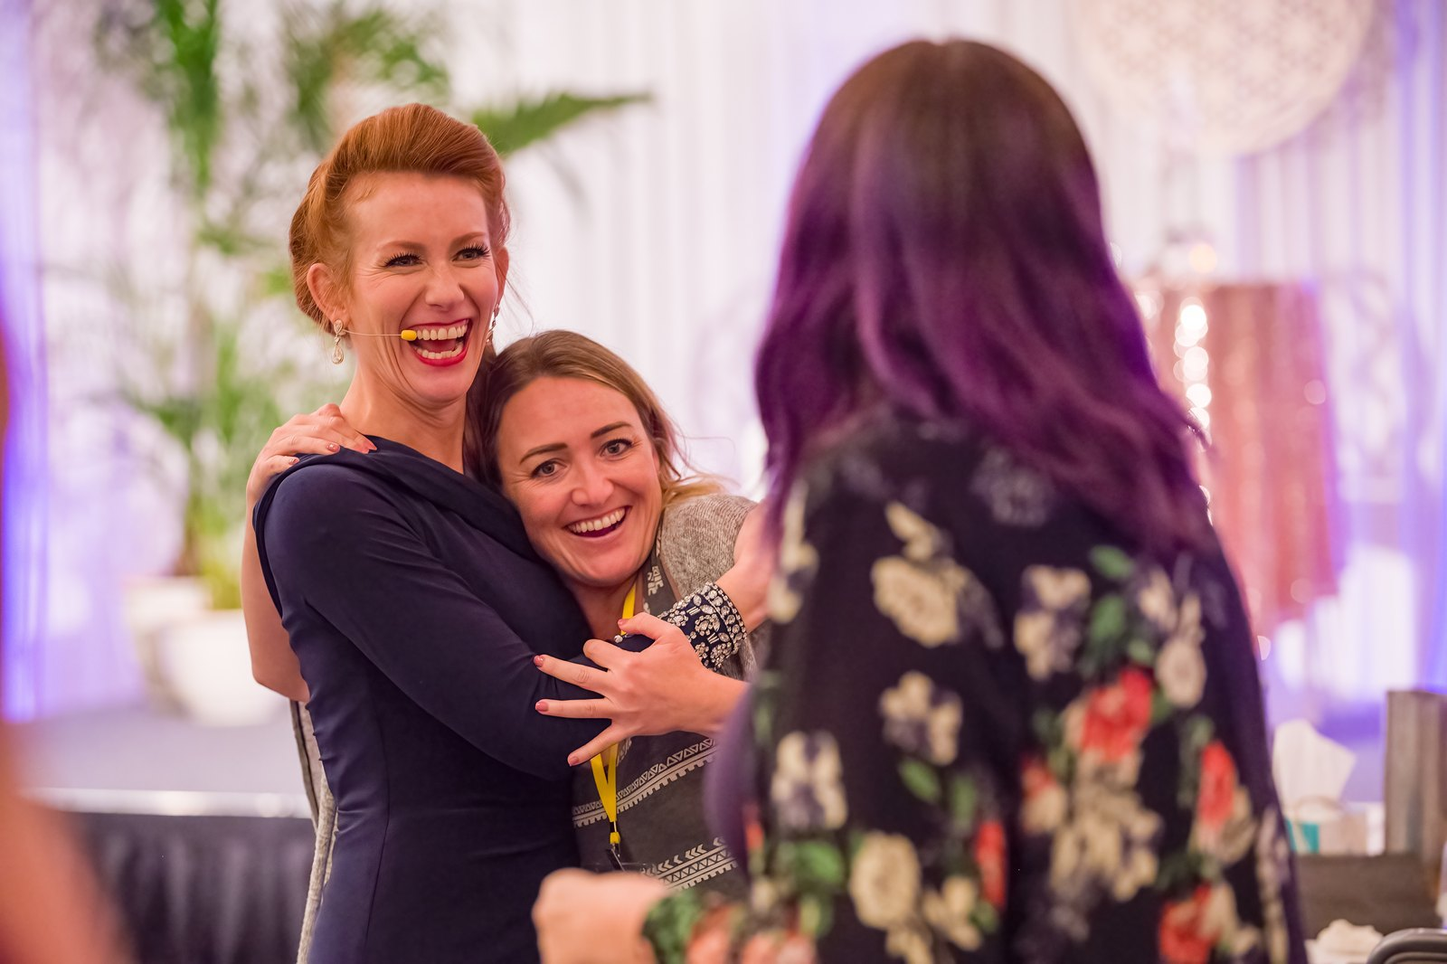
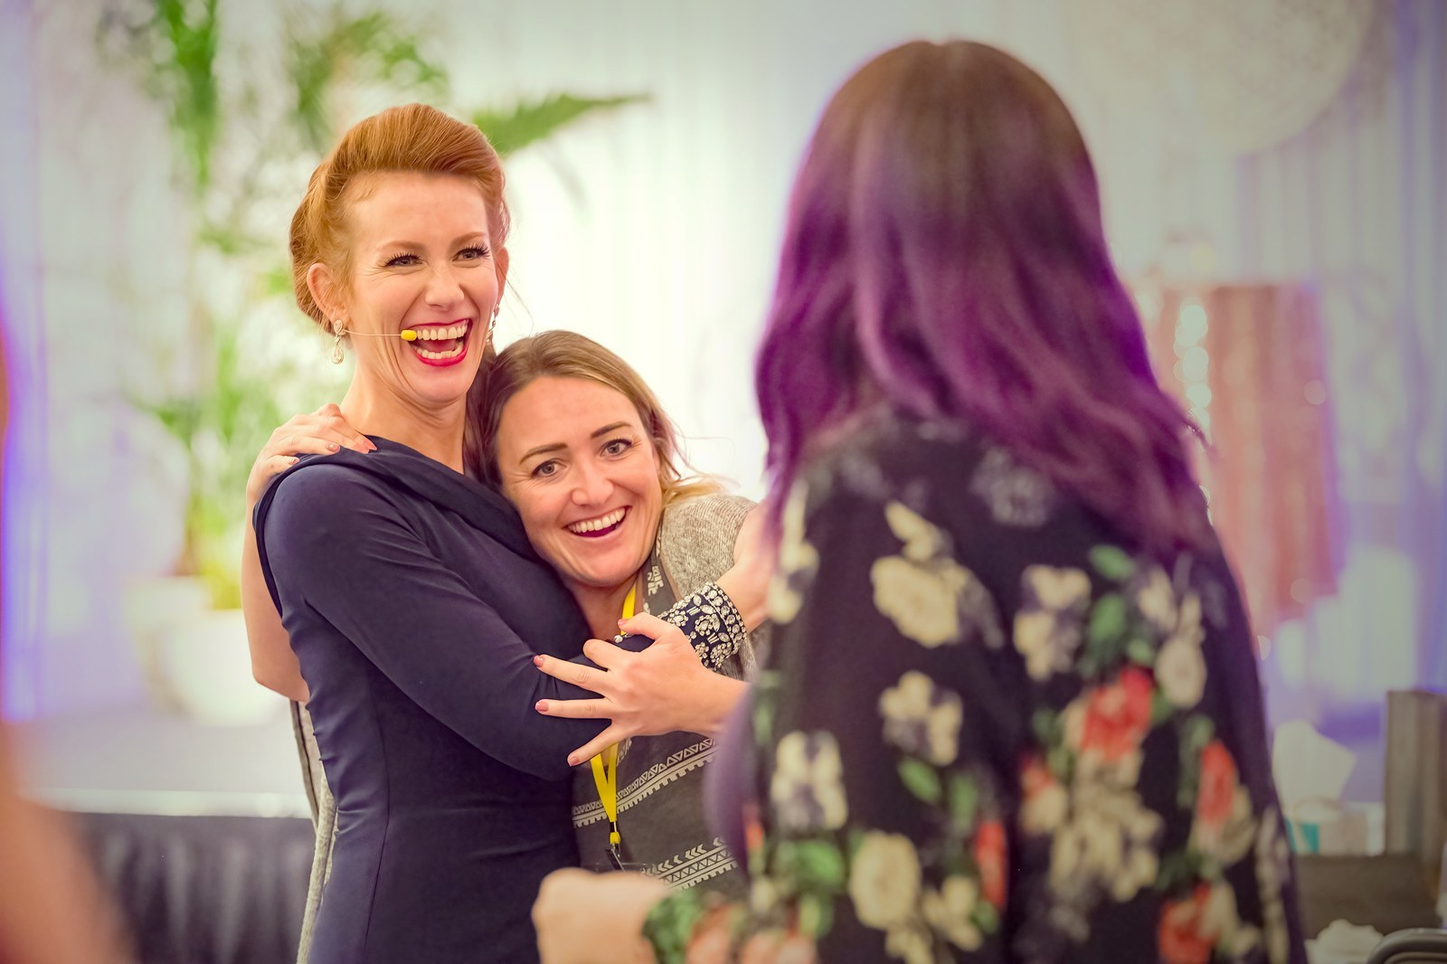
Rise of the Divine sales page live at /rise; old Rise links point to it

diff --git a/rise.html b/rise.html
@@ -1,0 +1,164 @@
+<!doctype html>
+<html lang="en">
+<head>
+<meta charset="utf-8">
+<meta name="viewport" content="width=device-width, initial-scale=1, viewport-fit=cover">
+<title>Rise of the Divine | Accelerator Course with Tamara Rose</title>
+<meta name="description" content="Rise of the Divine is Tamara Rose&#x27;s accelerator course: energy clearings, learning to trust your intuition and shifts that usually take months, on your own time.">
+<link rel="canonical" href="https://www.thebeyondhumanmethod.com/rise">
+<meta property="og:type" content="website">
+<meta property="og:site_name" content="The Beyond Human Method">
+<meta property="og:title" content="Rise of the Divine: An Accelerator Course with Tamara Rose">
+<meta property="og:description" content="Rise of the Divine is Tamara Rose&#x27;s accelerator course: energy clearings, learning to trust your intuition and shifts that usually take months, on your own time.">
+<meta property="og:image" content="https://www.thebeyondhumanmethod.com/img/tamara-rose-seated-black-lace-dress-fireplace.jpg">
+<meta property="og:url" content="https://www.thebeyondhumanmethod.com/rise">
+<meta name="twitter:card" content="summary_large_image">
+<meta name="theme-color" content="#440039">
+<link rel="preconnect" href="https://fonts.googleapis.com"><link rel="preconnect" href="https://fonts.gstatic.com" crossorigin>
+<link rel="stylesheet" href="https://fonts.googleapis.com/css2?family=Jost:wght@300;400;500&family=Cormorant+Garamond:ital,wght@0,400;0,500;1,400&display=swap">
+<link rel="stylesheet" href="assets/site.css?v=26">
+<script type="application/ld+json">{"@context": "https://schema.org", "@graph": [{"@type": "Course", "@id": "https://www.thebeyondhumanmethod.com/rise#course", "name": "Rise of the Divine", "description": "An accelerator course with Tamara Rose, recorded at a live three-day event: energy clearings, learning to hear and trust your intuition, the truth about time and money, laser coaching, and activating your divine archetype with a daily action plan. Video and audio lessons with a workbook, learned at your own pace.", "url": "https://www.thebeyondhumanmethod.com/rise", "image": "https://www.thebeyondhumanmethod.com/img/tamara-rose-seated-black-lace-dress-fireplace.jpg", "inLanguage": "en", "provider": {"@type": "Organization", "name": "The Beyond Human Method", "sameAs": "https://www.thebeyondhumanmethod.com"}, "instructor": {"@type": "Person", "name": "Tamara Rose"}, "offers": {"@type": "Offer", "category": "Paid", "price": "997", "priceCurrency": "USD", "availability": "https://schema.org/InStock", "url": "https://www.thebeyondhumanmethod.com/rise"}, "hasCourseInstance": {"@type": "CourseInstance", "courseMode": "Online", "instructor": {"@type": "Person", "name": "Tamara Rose"}}}, {"@type": "FAQPage", "mainEntity": [{"@type": "Question", "name": "How is Rise of the Divine different from other personal development courses?", "acceptedAnswer": {"@type": "Answer", "text": "Most courses focus on feeling better, positive thinking and surface shifts. Rise gives you the clearing itself, so the energy that's been weighing you down actually moves, and it teaches you to hear your own intuition. Most courses end when you complete them; this is the beginning of a lifelong transformation."}}, {"@type": "Question", "name": "I'm new to energy work. Will I fit in?", "acceptedAnswer": {"@type": "Answer", "text": "Absolutely. Women come to Rise at every stage of the journey, whether they're just awakening or have been on this path for years. Everything is taught from the ground up, and you'll hear women from the live event asking the questions you're already thinking."}}, {"@type": "Question", "name": "Can I really fit this into my life?", "acceptedAnswer": {"@type": "Answer", "text": "Yes. The lessons are short, every one comes in video and audio, and they open one after another so you always know what's next. Listen on a walk or a school run, or pour a cup of tea and go deep whenever you have the time."}}, {"@type": "Question", "name": "Where does the course live?", "acceptedAnswer": {"@type": "Answer", "text": "Rise lives in the Beyond Human community app, on your phone or your laptop. Right after checkout you go straight to your Welcome lesson."}}, {"@type": "Question", "name": "What if it isn't right for me?", "acceptedAnswer": {"@type": "Answer", "text": "Rise is backed by a 7-day money-back guarantee. If the course isn't right for you, email us within 7 days of purchase for a full refund."}}, {"@type": "Question", "name": "How long do I have access?", "acceptedAnswer": {"@type": "Answer", "text": "For life. Once you join, Rise is yours to come back to whenever you need it."}}, {"@type": "Question", "name": "Can I pay over time?", "acceptedAnswer": {"@type": "Answer", "text": "Yes. Pay $997 in full, or choose 3 monthly payments of $397 at checkout ($1,191 in total)."}}, {"@type": "Question", "name": "Does Rise count toward working with Tamara?", "acceptedAnswer": {"@type": "Answer", "text": "Yes. If Rise opens something you want to keep going with, the full amount you paid for Rise counts toward working with Tamara when you enroll within 45 days of starting the course."}}, {"@type": "Question", "name": "How do I find out what my own primary pattern is?", "acceptedAnswer": {"@type": "Answer", "text": "That's the Energetic Alignment Audit, a private session with Tamara where you name your primary pattern. It's a $1,500 value, usually $497, and Rise buyers can add it at checkout for $247."}}]}]}</script>
+<script async src="https://www.googletagmanager.com/gtag/js?id=G-TN50F5PK7E"></script>
+<script>window.dataLayer=window.dataLayer||[];function gtag(){dataLayer.push(arguments);}gtag('js',new Date());gtag('config','G-TN50F5PK7E');
+document.addEventListener('click',function(e){var a=e.target.closest('a[href]');if(!a)return;var h=a.href;
+if(h.indexOf('calendly.com')>-1)gtag('event','begin_checkout',{link_url:h,link_text:a.textContent.trim()});
+else if(h.indexOf('circle.so')>-1)gtag('event','join_community_click',{link_url:h});});</script>
+</head>
+<body>
+<a href="#main" class="fine" style="position:absolute;left:-9999px">Skip to content</a>
+
+<header class="site-head"><div class="wrap">
+<a class="brand" href="index.html" aria-label="The Beyond Human Method with Tamara Rose, home"><img src="img/logo.png" alt="The Beyond Human Method" width="297" height="121"><small>with Tamara Rose</small></a>
+
+</div></header>
+<main id="main">
+<section class="hero"><div class="wrap">
+  <div class="stack">
+    <p class="eyebrow">An accelerator course with Tamara Rose</p>
+    <h1>Rise of the Divine</h1>
+    <p class="lede">Clear the energy that's been weighing you down, hear your own intuition and feel shifts that usually take months, in one accelerator you can start today.</p>
+    <p>If you're exhausted from doing it all, carrying the mental load and shrinking yourself to fit a system that was never built for you&hellip; it's time to rise.</p>
+    <div class="stack-sm" style="align-items:flex-start"><a class="btn" href="go/rise">I'm in! Let's get started</a><span class="fine">$997 &middot; 7-day money-back guarantee</span></div>
+  </div>
+  <figure class="frame" style="margin-block:0"><img src="img/tamara-rose-seated-black-lace-dress-fireplace.jpg" alt="Tamara Rose smiling in a black lace dress, seated by a fireplace" style="object-position:100% 30%" width="1000" height="1334" fetchpriority="high"></figure>
+</div></section>
+
+<section><div class="wrap narrow stack">
+  <h2>You were born into a system that was never built for you&hellip;</h2>
+  <p>You've been told your whole life that you have to:</p>
+  <ul class="ticks">
+    <li>Work harder to prove you're worthy</li>
+    <li>Carry everything without complaining</li>
+    <li>Put everyone else first</li>
+    <li>Hustle, because hustle is the only way to success</li>
+    <li>Never make waves, be too much or stand out, so others stay comfortable and you fit in</li>
+  </ul>
+  <p>And you did it; you became the achiever, the responsible one and the one everyone counts on, juggling the kids, work, the house, the schedules and everyone's feelings along with your own, and somewhere along the way you lost yourself.</p>
+  <p>Your body is tired, your mind won't shut off and you don't have the energy for your relationships. The life you built probably looks good on paper, but it still feels empty. Everything you built has been inside a toxic system that has you produce more to prove your worth; it tells you rest will come someday, later, and that receiving is selfish, so your needs come last.</p>
+  <p>There's another way, a divine way, where you prioritize yourself without dread, work from flow instead of depletion and receive without guilt, and it starts here.</p>
+</div></section>
+
+<section class="tint"><div class="wrap narrow stack">
+  <p class="eyebrow">Learn at your own pace</p>
+  <h2>Energy doesn't end&hellip;</h2>
+  <p>We took our live three-day event and made it work on your terms. The work of the Beyond Human Method happens in the activation, when you bring yourself to a session, recorded or live. So even if you weren't in the room with us, you're finding Rise at exactly the right time; that's how energy works.</p>
+  <p>This accelerator gives you the tools, tips and techniques I usually only teach inside Divine Self Mastery, all in one place, so you get a complete recalibration of your energy field in your own sacred space. Move through it at your own pace, with video and audio for however you learn best; listen on the go, or create a sacred time each day for the teachings.</p>
+</div></section>
+
+<section><div class="wrap stack" style="gap:28px">
+  <div class="narrow stack"><h2>Four parts, in the order the work unfolds&hellip;</h2></div>
+  <div class="steps">
+    <div class="step"><span class="n">1</span><div><h3>Clearing the human limitations</h3><p>Learn the human limitations and the quiet lies that keep you playing small, and see how your thoughts, feelings and actions create what shows up in your life. Then clear what's been in the way in the Rise Group Clearing, a full clearing session you can come back to again and again; that session alone is worth the price of the course.</p></div></div>
+    <div class="step"><span class="n">2</span><div><h3>Intuition, time and money</h3><p>Find out how your intuition speaks to you, whether you're a knower, a feeler, a seer or a hearer, and how to tell if a message is coming from fear or from your higher self. Then learn the truth about the time and money limitations you've been living with, so you can stop forcing life and start choosing what's aligned.</p></div></div>
+    <div class="step"><span class="n">3</span><div><h3>Laser coaching</h3><p>Watch four women receive guidance beyond what they could see for themselves, on charging what they're worth, trusting it will all work out, patterns carried down a family line and finding more confidence. Look for yourself in someone else's breakthrough, and let yourself rise right along with her.</p></div></div>
+    <div class="step"><span class="n">4</span><div><h3>Your divine archetype and action plan</h3><p>Activate your divine archetype and create your action plan to keep rising on your divine path, with practices for every day, week and month that hold the transformation long after the course ends.</p></div></div>
+  </div>
+</div></section>
+
+<section class="tint"><div class="wrap split">
+  <figure class="frame" style="margin-block:0"><img src="img/tamara-rose-hugging-participants-event.jpg" alt="Tamara Rose hugging participants at a live event" style="object-position:30% 40%" width="1600" height="1066" loading="lazy"></figure>
+  <div class="stack">
+    <p class="eyebrow">Why it's called Rise of the Divine</p>
+    <h2>There's a collective divine feminine energy rising on the planet&hellip;</h2>
+    <p>You can feel it. Women everywhere are fed up, done shrinking and done running on empty, and that fed-up feeling is the activation; the frustration, the anger and the "I can't keep doing it this way" are the energy rising in you.</p>
+    <p>Rise helps you get clear on that energy, how it moves through you and what your path forward is. Along the way, you clear the older, smaller versions of you: the one who always had to prove herself, the one who needed to be needed and the one who kept running on the hamster wheel because stopping didn't feel safe.</p>
+  </div>
+</div></section>
+
+<section><div class="wrap stack" style="max-width:980px">
+  <h2>Everything you get&hellip;</h2>
+  <ul class="ticks" style="display:grid;grid-template-columns:repeat(auto-fit,minmax(380px,1fr));gap:12px 40px">
+    <li><strong>More than 40 lessons from the original event,</strong> short enough to fit into your day, to learn in the moments you already have</li>
+    <li><strong>An audio version of every lesson,</strong> to take it with you on walks, drives and school runs</li>
+    <li><strong>The Rise workbook inside every lesson,</strong> to capture what comes up while it's fresh</li>
+    <li><strong>The Rise Group Clearing in video and audio,</strong> to loop as often as you like and keep clearing what's been in the way</li>
+    <li><strong>Four laser coaching sessions,</strong> to see yourself in someone else's breakthrough</li>
+    <li><strong>A check-in after each part,</strong> to notice what's already shifting</li>
+    <li><strong>Your divine archetype activation and action plan,</strong> to carry the transformation into your everyday life</li>
+    <li><strong>The 20-Day Meditation Series, free with your community access,</strong> to build a daily practice that lasts</li>
+  </ul>
+</div></section>
+
+<section><div class="wrap stack" style="max-width:900px;gap:30px">
+  <div class="seed" id="start" style="grid-template-columns:1fr;justify-items:center;text-align:center;padding:clamp(34px,4vw,52px) clamp(24px,5vw,64px)"><div class="stack-sm" style="max-width:640px"><p class="fine" style="color:var(--plum);letter-spacing:.16em;text-transform:uppercase">Rise of the Divine &middot; Total value $4,500</p><p class="q">Your investment: $997</p><p>The first four months of Divine Self Mastery, distilled into one accelerator you can start today: more than 40 video and audio lessons, the Rise Group Clearing, your workbook and your divine archetype action plan.</p></div><a class="btn" href="go/rise">I'm in! Let's get started</a><ul class="fine" style="list-style:none;padding:0;margin:0;display:flex;flex-wrap:wrap;justify-content:center;gap:6px 22px"><li>Or 3 monthly payments of $397</li><li>7-day money-back guarantee</li><li>Instant access</li></ul></div>
+</div></section>
+
+<section><div class="wrap stack" style="gap:28px">
+  <p class="eyebrow" style="text-align:center">From the women who were there</p>
+  <div class="voices">
+    <figure class="voice"><blockquote>This weekend hit a few of my deeper integrations. I have no fear at the moment; I can't even poke to find it.</blockquote><figcaption>Heather O'Toole</figcaption></figure>
+    <figure class="voice"><blockquote>I have been struggling to act, but I feel like I'm awake again. I think this is the first time I've truly listened to my body.</blockquote><figcaption>Dearra Williams</figcaption></figure>
+    <figure class="voice"><blockquote>I even came out to a community event by myself today on a whim, which is something Previous Me would have never done.</blockquote><figcaption>Stephanie de Luna</figcaption></figure>
+  </div>
+</div></section>
+
+<section class="tint"><div class="wrap narrow stack">
+  <h2>Rise is for you if&hellip;</h2>
+  <ul class="ticks">
+    <li>You're exhausted from carrying everything, and you know there has to be another way</li>
+    <li>You've achieved success, but you're burned out and it doesn't feel worth it anymore</li>
+    <li>You're done shrinking yourself to keep other people comfortable</li>
+    <li>You want to work softer and receive more, but you don't know how to actually do that</li>
+    <li>You're curious about energy work, about a change or about what's next for you, and you're willing to look at what's been in the way</li>
+  </ul>
+  <p class="fine">Want to know the one pattern underneath it all first? That's what we find together in your <a href="audit.html">Energetic Alignment Audit</a>, a private 90-minute session with me.</p>
+</div></section>
+
+
+
+<section class="tint"><div class="wrap split">
+  <div class="stack">
+  <p class="eyebrow">Your guide</p>
+  <h2>Hi, I'm Tamara Rose&hellip;</h2>
+  <p>I've spent more than 15 years guiding women through the moments that change everything, with over 20,000 hours across live rooms, online events, group work and private sessions. I work with women in the middle of a big life transition, women looking for what's next and women being called to something more who just can't seem to figure out how to get there.</p>
+  <p>I learned all of this the hard way. At 29, I had it all: a big bank account, four properties and the number one sales spot at my company, and I still felt completely trapped. I sold three of my four properties and rebuilt my life from the inside, and today I raise my daughter in the Rocky Mountains of Colorado, never wake up to an alarm and take my baths at 2pm on a Tuesday.</p>
+  <p>If you've had an empowering conversation with your best friend or a mind-blowing session with your therapist, multiply that by ten; that's what Rise is made to feel like.</p>
+  </div>
+  <figure class="frame" style="margin-block:0"><img src="img/tamara-rose-portrait-black-top.jpg" alt="Tamara Rose smiling in a black top" style="object-position:35% 25%" width="1600" height="1438" loading="lazy"></figure>
+</div></section>
+
+<section><div class="wrap narrow stack">
+  <h2>Before you start&hellip;</h2>
+  <div class="faq">
+    <details><summary>How is Rise of the Divine different from other personal development courses?</summary><p>Most courses focus on feeling better, positive thinking and surface shifts. Rise gives you the clearing itself, so the energy that's been weighing you down actually moves, and it teaches you to hear your own intuition. Most courses end when you complete them; this is the beginning of a lifelong transformation.</p></details>
+    <details><summary>I'm new to energy work. Will I fit in?</summary><p>Absolutely. Women come to Rise at every stage of the journey, whether they're just awakening or have been on this path for years. Everything is taught from the ground up, and you'll hear women from the live event asking the questions you're already thinking.</p></details>
+    <details><summary>Can I really fit this into my life?</summary><p>Yes. The lessons are short, every one comes in video and audio, and they open one after another so you always know what's next. Listen on a walk or a school run, or pour a cup of tea and go deep whenever you have the time.</p></details>
+    <details><summary>Where does the course live?</summary><p>Rise lives in the Beyond Human community app, on your phone or your laptop. Right after checkout you go straight to your Welcome lesson.</p></details>
+    <details><summary>What if it isn't right for me?</summary><p>Rise is backed by a 7-day money-back guarantee. If the course isn't right for you, email us within 7 days of purchase for a full refund. The details are in our <a href="terms.html">terms</a>.</p></details>
+    <details><summary>How long do I have access?</summary><p>For life. Once you join, Rise is yours to come back to whenever you need it.</p></details>
+    <details><summary>Can I pay over time?</summary><p>Yes. Pay $997 in full, or choose 3 monthly payments of $397 at checkout ($1,191 in total).</p></details>
+    <details><summary>Does Rise count toward working with you?</summary><p>Yes. If Rise opens something you want to keep going with, the full amount you paid for Rise counts toward working with me when you enroll within 45 days of starting the course.</p></details>
+    <details><summary>How do I find out what my own primary pattern is?</summary><p>Everybody has a primary pattern, and it's unique to you; "I'm not good enough" is so general, so what's your flavor of it? That's what the Energetic Alignment Audit is for, a private session with me where we name it. It's a $1,500 value, usually $497, and when you join Rise you can add it at checkout for $247.</p></details>
+  </div>
+</div></section>
+</main>
+
+<section class="foot-close"><div class="wrap narrow stack">
+  <h2>If you found Rise today, it found you at the right time.</h2>
+  <p class="turn">The clearings, your intuition and a whole new way of seeing your life, on your own time and in your own space; start whenever you're ready, and let this be the beginning.</p>
+  <div class="row" style="justify-content:center"><a class="btn" href="go/rise">I'm in! Let's get started</a></div><figure class="close-quote"><blockquote>Tamara gets to the heart of everything. She makes our capacities accessible to leapfrog and completely transform anything we want.</blockquote><figcaption>Clarissa Fugazzotto</figcaption></figure>
+</div></section>
+<footer class="site-foot"><div class="wrap"><div class="fbase"><span>&copy; 2026 The Beyond Human Method Inc.</span><span><a href="contact.html">Contact</a> &middot; <a href="privacy.html">Privacy</a> &middot; <a href="terms.html">Terms</a></span></div></div></footer>
+
+</body>
+</html>

diff --git a/divine-self-mastery.html b/divine-self-mastery.html
@@ -148,7 +148,7 @@ else if(h.indexOf('circle.so')>-1)gtag('event','join_community_click',{link_url:
     <details><summary>How much time does it take?</summary><p>You'll create a daily practice, morning and/or night, to begin making the changes needed to live the life you love. Our live sessions are 90 minutes and recorded for your convenience, and they're meant to be woven into your day: your drive time, your walks, your workouts, while you're doing the dishes or the laundry, so you're listening and taking in the content all the time.</p></details>
     <details><summary>What if the live session times don't fit my schedule?</summary><p>That's okay. Every session is recorded, and you can listen on the go. I've had clients I've never met and never seen on camera, and I get emails about the success they've had just from the program.</p></details>
     <details><summary>What happens after the first year?</summary><p>Many clients continue on to a second and third year, which go deeper into energetic self mastery and mastering The Beyond Human Method. Graduates can always stay connected through the graduate membership as well.</p></details>
-    <details><summary>Is there a self-paced option?</summary><p>Yes. Rise of the Divine is a self-paced accelerator with the core clearings and intuition work, for $997 with a 7-day money-back guarantee. <a href="https://tamararose1234.github.io/rise-of-the-divine/">See Rise of the Divine</a>.</p></details>
+    <details><summary>Is there a self-paced option?</summary><p>Yes. Rise of the Divine is a self-paced accelerator with the core clearings and intuition work, for $997 with a 7-day money-back guarantee. <a href="rise.html">See Rise of the Divine</a>.</p></details>
     <details><summary>Is there a guarantee?</summary><p>Yes. Divine Self Mastery has a money-back guarantee, so if you see no change and you've done the program exactly the way it's been designed, I'm happy to refund your investment. The terms are spelled out in your enrollment agreement before you commit.</p></details>
   </div>
 </div></section>

diff --git a/community.html b/community.html
@@ -84,7 +84,7 @@ else if(h.indexOf('circle.so')>-1)gtag('event','join_community_click',{link_url:
   <figure class="pull"><blockquote>I'm so inspired and motivated in my energy; I even came out to a community event by myself today on a whim, which is something Previous Me would have NEVER done.</blockquote><figcaption>Stephanie de Luna</figcaption></figure>
   <div class="stack">
     <h3>Ready to go further?</h3>
-    <p>Want to go deeper at your own pace? <a href="https://tamararose1234.github.io/rise-of-the-divine/">Rise of the Divine</a> is the self-paced accelerator, with the clearings and intuition work you can take whenever your life has room for it.</p>
+    <p>Want to go deeper at your own pace? <a href="rise.html">Rise of the Divine</a> is the self-paced accelerator, with the clearings and intuition work you can take whenever your life has room for it.</p>
     <p>When you want to find the pattern underneath it all, the Energetic Alignment Audit is the next step, and the $497 is credited in full if you continue into working with me. <a href="audit.html">About the Audit</a>.</p>
   </div>
 </div></section>

diff --git a/course/rise/index.html b/course/rise/index.html
@@ -1,1 +1,1 @@
-<!doctype html><meta charset="utf-8"><title>One moment</title><link rel="canonical" href="https://learn.thebeyondhumanmethod.com/course/rise"><meta http-equiv="refresh" content="0; url=https://learn.thebeyondhumanmethod.com/course/rise"><script>location.replace("https://learn.thebeyondhumanmethod.com/course/rise"+location.search+location.hash)</script><a href="https://learn.thebeyondhumanmethod.com/course/rise">Continue</a>
+<!doctype html><meta charset="utf-8"><title>Redirecting</title><link rel="canonical" href="https://www.thebeyondhumanmethod.com/rise"><meta name="robots" content="noindex"><meta http-equiv="refresh" content="0; url=https://www.thebeyondhumanmethod.com/rise"><a href="https://www.thebeyondhumanmethod.com/rise">Continue</a>
